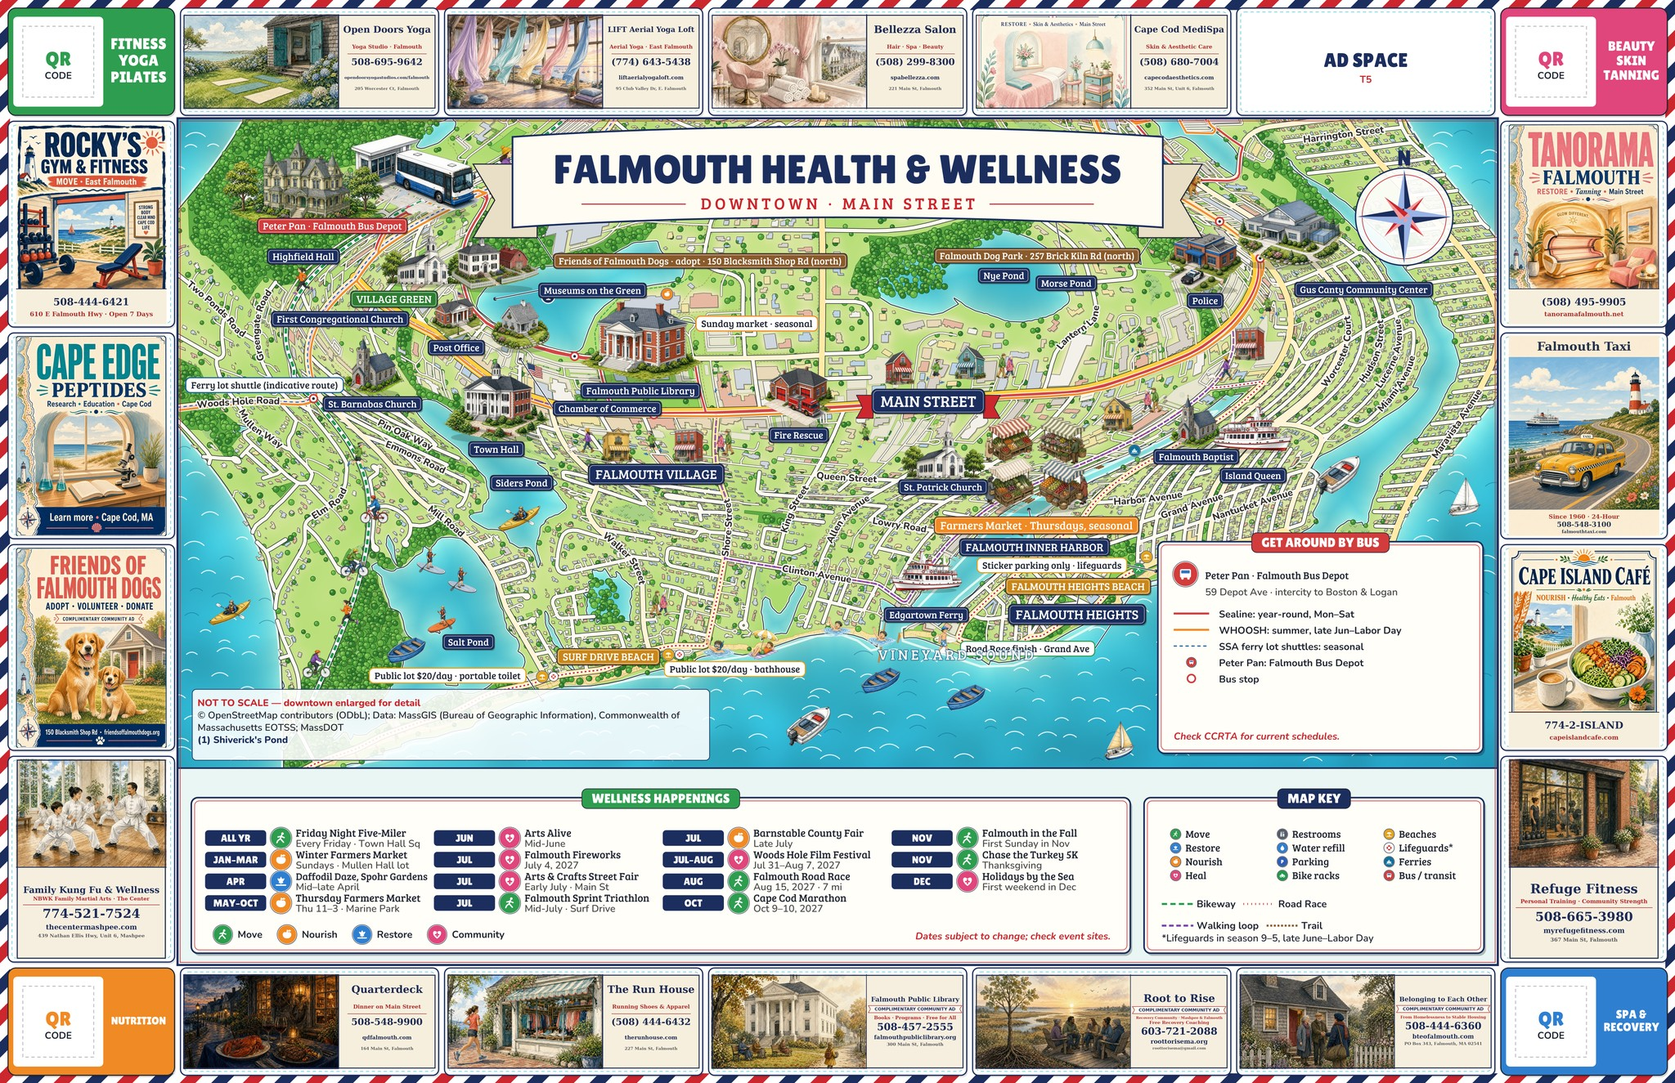
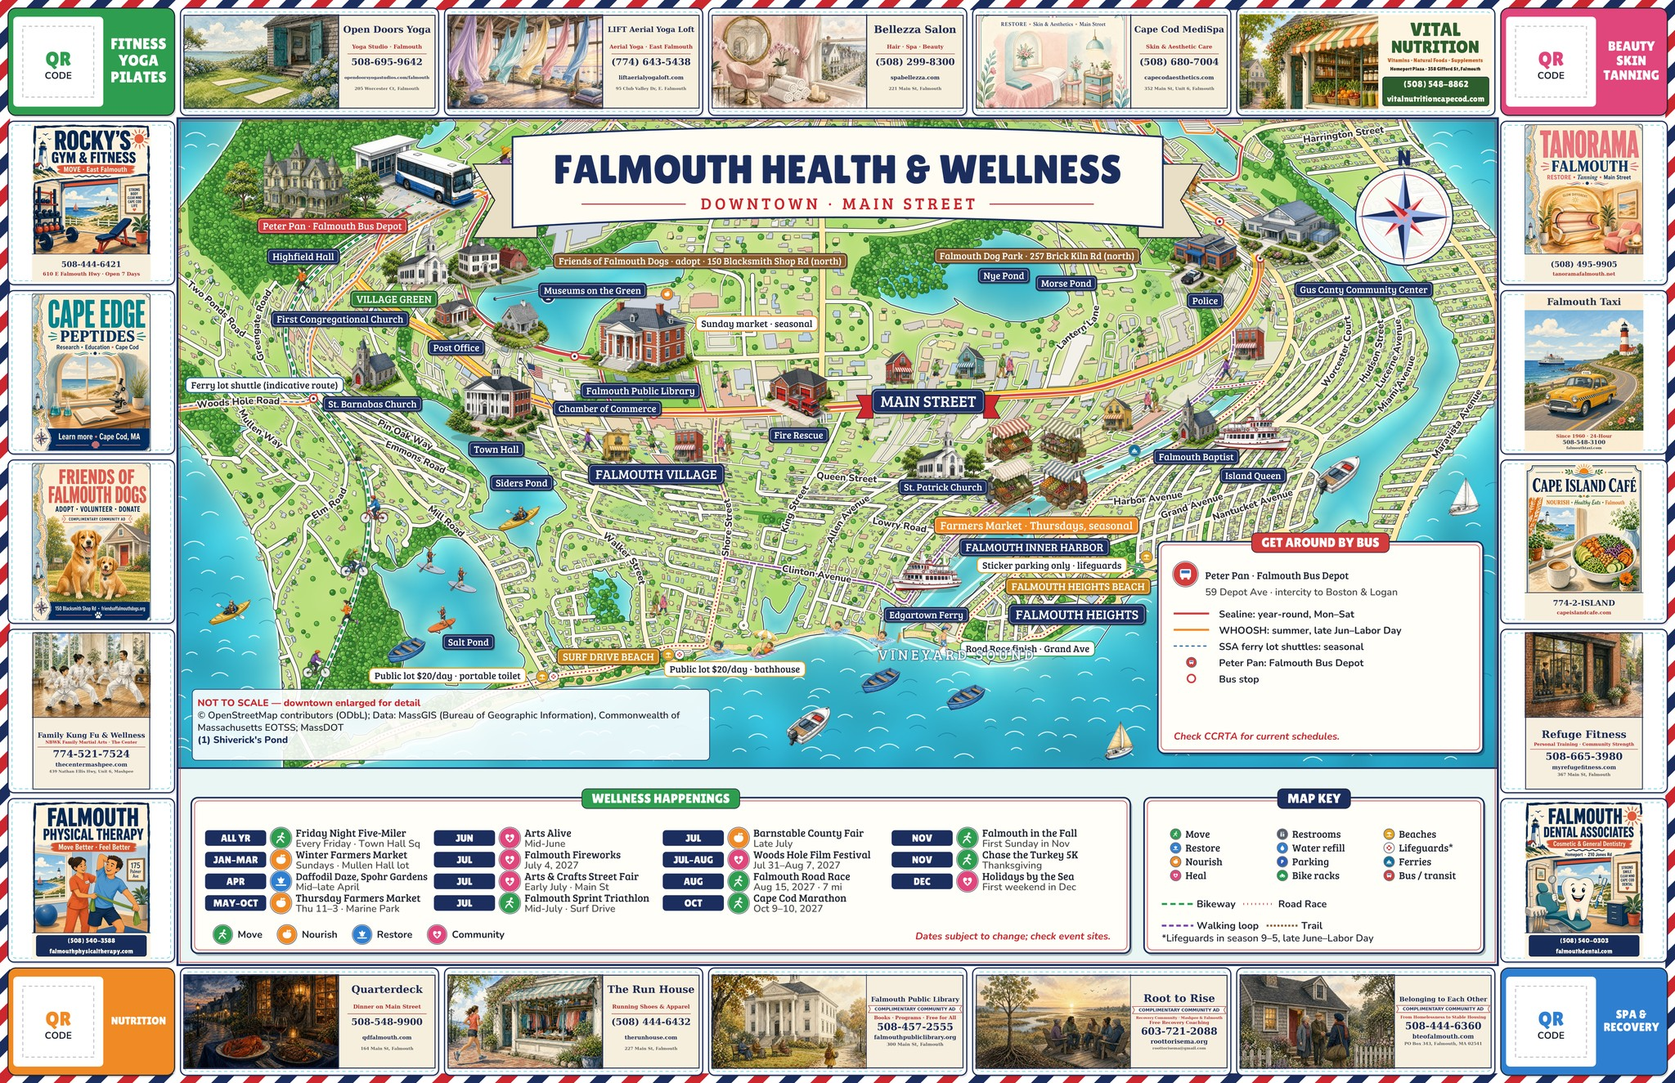
Add Homeport ads: T5 Vital Nutrition, R5 Falmouth Dental, L5 Falmouth PT; sides 4→5 slots

Changed region(s): [[0.7188, 0.0, 1.0, 0.8974], [0.0, 0.0928, 0.125, 0.8974]]

diff --git a/falmouth/spa-recovery/index.html b/falmouth/spa-recovery/index.html
@@ -4,4 +4,4 @@ main{max-width:980px;margin:0 auto;padding:20px}.grid{display:grid;grid-template
 .card{background:#fff;border:3px solid #1d2a36;border-radius:10px;padding:14px;box-shadow:5px 5px 0 var(--acc)}
 .card h3{margin:.1rem 0 .3rem}.tag{display:inline-block;font:12px sans-serif;background:var(--acc);color:#fff;border-radius:4px;padding:2px 6px}
 .conf{font:12px sans-serif;color:#7a5a00}.draft{background:#fff3c4;border:2px dashed #b38600;padding:8px 12px;font:13px sans-serif;margin-bottom:16px}
-a{color:#1d4f91}footer{font:12px sans-serif;color:#555;padding:20px;text-align:center}nav a{margin-right:12px}nav{display:flex;flex-wrap:wrap;gap:8px;margin:0 0 16px}nav a{margin:0;background:#fff;border:2px solid #1d2a36;border-radius:20px;padding:4px 10px;font:13px sans-serif;text-decoration:none}.feat{background:#1d2a36;color:#fff;font:11px sans-serif;border-radius:4px;padding:2px 6px;margin-left:4px}.note{background:#fff;border:2px dashed var(--acc);padding:8px 12px;font:13px sans-serif;margin-bottom:16px;border-radius:8px}.card p{margin:.3rem 0;font-size:.95rem}@media(max-width:500px){header h1{font-size:1.5rem}}</style></head><body><header><h1>Spa · Recovery</h1><p>Massage, physical therapy, chiropractic, day spas and recovery community.</p></header><main><nav><a href="../../">← Map gallery</a><a href="../../falmouth/">All categories</a><a href="../fitness-yoga-pilates/">Fitness · Yoga · Pilates</a><a href="../beauty-skin-tanning/">Beauty · Skin · Tanning</a><a href="../nutrition/">Nutrition</a><a href="../spa-recovery/">Spa · Recovery</a><a href="../getting-around/">Getting Around</a><a href="../hotels/">Hotels & Stays</a><a href="../groceries/">Groceries & Markets</a></nav><div class="note">Listings update over time. ★ = featured on the printed map border.</div><div class="grid"><div class="card"><h3>Root to Rise<span class=feat>★ Map advertiser</span></h3><span class="tag">free recovery community · complimentary</span><p>📞 <a href="tel:6037212088">603-721-2088</a></p><p>🌐 <a href="https://roottorisema.org/" target="_blank" rel="noopener">roottorisema.org</a></p></div><div class="card"><h3>Bay State Physical Therapy - Falmouth</h3><span class="tag">physical therapy</span><p>📍 205 Worcester Court, Unit B3, Falmouth, MA 02540</p><p>📞 <a href="tel:7743490026">(774) 349-0026</a></p><p>🌐 <a href="https://locations.baystatept.com/ma/falmouth/205-worcester-court" target="_blank" rel="noopener">locations.baystatept.com/ma/falmouth/205-worcester-court</a></p></div><div class="card"><h3>Calleen&#x27;s Day Spa</h3><span class="tag">day spa</span><p>📍 292 Teaticket Highway, Falmouth, MA 02536</p><p>📞 <a href="tel:+17742551043">+1-774-255-1043</a></p><p>🌐 <a href="https://www.caleensdayspafalmouth.com" target="_blank" rel="noopener">caleensdayspafalmouth.com</a></p></div><div class="card"><h3>Falmouth Physical Therapy</h3><span class="tag">physical therapy</span><p>📍 175 Palmer Avenue, Falmouth, MA 02540</p><p>📞 <a href="tel:5085403588">508-540-3588</a></p><p>🌐 <a href="https://falmouthphysicaltherapy.com/" target="_blank" rel="noopener">falmouthphysicaltherapy.com</a></p></div><div class="card"><h3>Gallagher Family Chiropractic</h3><span class="tag">chiropractic</span><p>📍 143 Palmer Avenue, Falmouth, MA 02540</p><p>📞 <a href="tel:5084576000">508-457-6000</a></p><p>🌐 <a href="https://www.gallagherfamilychiropractic.net/" target="_blank" rel="noopener">gallagherfamilychiropractic.net</a></p></div><div class="card"><h3>Holistic Massage and Wellness (Lisa Jean Cotto, LMT)</h3><span class="tag">massage therapy / holistic wellness</span><p>📍 200 Main Street, Suite 205, Room 1, Falmouth, MA 02540</p><p>📞 <a href="tel:5088156689">(508) 815-6689</a></p><p>🌐 <a href="https://www.holisticmassageandwellness.com/" target="_blank" rel="noopener">holisticmassageandwellness.com</a></p></div><div class="card"><h3>Relax &amp; Renew Day Spa</h3><span class="tag">day spa / massage / facials</span><p>📍 635 West Falmouth Highway, West Falmouth, MA 02574</p><p>📞 <a href="tel:5085407775">(508) 540-7775</a></p><p>🌐 <a href="https://www.relaxandrenewdayspa.com/" target="_blank" rel="noopener">relaxandrenewdayspa.com</a></p></div><div class="card"><h3>Relaxing Therapeutic Massage</h3><span class="tag">massage therapy</span><p>📍 200 Main Street (Rt. 28), Suite 205, Falmouth, MA 02540</p><p>📞 <a href="tel:7742698917">774-269-8917</a></p><p>🌐 <a href="https://relaxing.abmp.com/" target="_blank" rel="noopener">relaxing.abmp.com</a></p></div><div class="card"><h3>Thumbtastic of Cape Cod</h3><span class="tag">massage / infrared sauna / personal training</span><p>📍 95 Spring Bars Road, Unit 107, Falmouth, MA 02540</p><p>📞 <a href="tel:5083607546">(508) 360-7546</a></p><p>🌐 <a href="https://www.thumbtasticofcapecod.com/" target="_blank" rel="noopener">thumbtasticofcapecod.com</a></p></div><div class="card"><h3>Walko Chiropractic &amp; Nutrition</h3><span class="tag">chiropractic / nutrition guidance</span><p>📍 69 Davis Straits, Falmouth, MA 02540</p><p>📞 <a href="tel:5085404000">508-540-4000</a></p><p>🌐 <a href="https://walkochiro.com/" target="_blank" rel="noopener">walkochiro.com</a></p></div><div class="card"><h3>Woods Hole Wellbeing</h3><span class="tag">energy / sound healing studio</span><p>📍 28 Water Street, Unit A, Woods Hole, MA 02543</p><p>📞 <a href="tel:5082742776">508-274-2776</a></p><p>🌐 <a href="https://www.woodsholewellbeing.com/" target="_blank" rel="noopener">woodsholewellbeing.com</a></p></div></div><h2>More coming</h2><p>Events, offers and tips for this category will be added here.</p></main><footer>Falmouth Health &amp; Wellness Map · Falmouth, MA · Listings update over time</footer></body></html>
+a{color:#1d4f91}footer{font:12px sans-serif;color:#555;padding:20px;text-align:center}nav a{margin-right:12px}nav{display:flex;flex-wrap:wrap;gap:8px;margin:0 0 16px}nav a{margin:0;background:#fff;border:2px solid #1d2a36;border-radius:20px;padding:4px 10px;font:13px sans-serif;text-decoration:none}.feat{background:#1d2a36;color:#fff;font:11px sans-serif;border-radius:4px;padding:2px 6px;margin-left:4px}.note{background:#fff;border:2px dashed var(--acc);padding:8px 12px;font:13px sans-serif;margin-bottom:16px;border-radius:8px}.card p{margin:.3rem 0;font-size:.95rem}@media(max-width:500px){header h1{font-size:1.5rem}}</style></head><body><header><h1>Spa · Recovery</h1><p>Massage, physical therapy, chiropractic, day spas and recovery community.</p></header><main><nav><a href="../../">← Map gallery</a><a href="../../falmouth/">All categories</a><a href="../fitness-yoga-pilates/">Fitness · Yoga · Pilates</a><a href="../beauty-skin-tanning/">Beauty · Skin · Tanning</a><a href="../nutrition/">Nutrition</a><a href="../spa-recovery/">Spa · Recovery</a><a href="../getting-around/">Getting Around</a><a href="../hotels/">Hotels & Stays</a><a href="../groceries/">Groceries & Markets</a></nav><div class="note">Listings update over time. ★ = featured on the printed map border.</div><div class="grid"><div class="card"><h3>Root to Rise<span class=feat>★ Map advertiser</span></h3><span class="tag">free recovery community · complimentary</span><p>📞 <a href="tel:6037212088">603-721-2088</a></p><p>🌐 <a href="https://roottorisema.org/" target="_blank" rel="noopener">roottorisema.org</a></p></div><div class="card"><h3>Bay State Physical Therapy - Falmouth</h3><span class="tag">physical therapy</span><p>📍 205 Worcester Court, Unit B3, Falmouth, MA 02540</p><p>📞 <a href="tel:7743490026">(774) 349-0026</a></p><p>🌐 <a href="https://locations.baystatept.com/ma/falmouth/205-worcester-court" target="_blank" rel="noopener">locations.baystatept.com/ma/falmouth/205-worcester-court</a></p></div><div class="card"><h3>Calleen&#x27;s Day Spa</h3><span class="tag">day spa</span><p>📍 292 Teaticket Highway, Falmouth, MA 02536</p><p>📞 <a href="tel:+17742551043">+1-774-255-1043</a></p><p>🌐 <a href="https://www.caleensdayspafalmouth.com" target="_blank" rel="noopener">caleensdayspafalmouth.com</a></p></div><div class="card"><h3>Falmouth Physical Therapy<span class=feat>★ Map advertiser</span></h3><span class="tag">physical therapy</span><p>📍 175 Palmer Avenue, Falmouth, MA 02540</p><p>📞 <a href="tel:5085403588">508-540-3588</a></p><p>🌐 <a href="https://falmouthphysicaltherapy.com/" target="_blank" rel="noopener">falmouthphysicaltherapy.com</a></p></div><div class="card"><h3>Gallagher Family Chiropractic</h3><span class="tag">chiropractic</span><p>📍 143 Palmer Avenue, Falmouth, MA 02540</p><p>📞 <a href="tel:5084576000">508-457-6000</a></p><p>🌐 <a href="https://www.gallagherfamilychiropractic.net/" target="_blank" rel="noopener">gallagherfamilychiropractic.net</a></p></div><div class="card"><h3>Holistic Massage and Wellness (Lisa Jean Cotto, LMT)</h3><span class="tag">massage therapy / holistic wellness</span><p>📍 200 Main Street, Suite 205, Room 1, Falmouth, MA 02540</p><p>📞 <a href="tel:5088156689">(508) 815-6689</a></p><p>🌐 <a href="https://www.holisticmassageandwellness.com/" target="_blank" rel="noopener">holisticmassageandwellness.com</a></p></div><div class="card"><h3>Relax &amp; Renew Day Spa</h3><span class="tag">day spa / massage / facials</span><p>📍 635 West Falmouth Highway, West Falmouth, MA 02574</p><p>📞 <a href="tel:5085407775">(508) 540-7775</a></p><p>🌐 <a href="https://www.relaxandrenewdayspa.com/" target="_blank" rel="noopener">relaxandrenewdayspa.com</a></p></div><div class="card"><h3>Relaxing Therapeutic Massage</h3><span class="tag">massage therapy</span><p>📍 200 Main Street (Rt. 28), Suite 205, Falmouth, MA 02540</p><p>📞 <a href="tel:7742698917">774-269-8917</a></p><p>🌐 <a href="https://relaxing.abmp.com/" target="_blank" rel="noopener">relaxing.abmp.com</a></p></div><div class="card"><h3>Thumbtastic of Cape Cod</h3><span class="tag">massage / infrared sauna / personal training</span><p>📍 95 Spring Bars Road, Unit 107, Falmouth, MA 02540</p><p>📞 <a href="tel:5083607546">(508) 360-7546</a></p><p>🌐 <a href="https://www.thumbtasticofcapecod.com/" target="_blank" rel="noopener">thumbtasticofcapecod.com</a></p></div><div class="card"><h3>Walko Chiropractic &amp; Nutrition</h3><span class="tag">chiropractic / nutrition guidance</span><p>📍 69 Davis Straits, Falmouth, MA 02540</p><p>📞 <a href="tel:5085404000">508-540-4000</a></p><p>🌐 <a href="https://walkochiro.com/" target="_blank" rel="noopener">walkochiro.com</a></p></div><div class="card"><h3>Woods Hole Wellbeing</h3><span class="tag">energy / sound healing studio</span><p>📍 28 Water Street, Unit A, Woods Hole, MA 02543</p><p>📞 <a href="tel:5082742776">508-274-2776</a></p><p>🌐 <a href="https://www.woodsholewellbeing.com/" target="_blank" rel="noopener">woodsholewellbeing.com</a></p></div></div><h2>More coming</h2><p>Events, offers and tips for this category will be added here.</p></main><footer>Falmouth Health &amp; Wellness Map · Falmouth, MA · Listings update over time</footer></body></html>

diff --git a/falmouth/nutrition/index.html b/falmouth/nutrition/index.html
@@ -4,4 +4,4 @@ main{max-width:980px;margin:0 auto;padding:20px}.grid{display:grid;grid-template
 .card{background:#fff;border:3px solid #1d2a36;border-radius:10px;padding:14px;box-shadow:5px 5px 0 var(--acc)}
 .card h3{margin:.1rem 0 .3rem}.tag{display:inline-block;font:12px sans-serif;background:var(--acc);color:#fff;border-radius:4px;padding:2px 6px}
 .conf{font:12px sans-serif;color:#7a5a00}.draft{background:#fff3c4;border:2px dashed #b38600;padding:8px 12px;font:13px sans-serif;margin-bottom:16px}
-a{color:#1d4f91}footer{font:12px sans-serif;color:#555;padding:20px;text-align:center}nav a{margin-right:12px}nav{display:flex;flex-wrap:wrap;gap:8px;margin:0 0 16px}nav a{margin:0;background:#fff;border:2px solid #1d2a36;border-radius:20px;padding:4px 10px;font:13px sans-serif;text-decoration:none}.feat{background:#1d2a36;color:#fff;font:11px sans-serif;border-radius:4px;padding:2px 6px;margin-left:4px}.note{background:#fff;border:2px dashed var(--acc);padding:8px 12px;font:13px sans-serif;margin-bottom:16px;border-radius:8px}.card p{margin:.3rem 0;font-size:.95rem}@media(max-width:500px){header h1{font-size:1.5rem}}</style></head><body><header><h1>Nutrition</h1><p>Health food, smoothies and nourishing eats. See also the Falmouth Farmers Market (Thursdays at Marine Park in season).</p></header><main><nav><a href="../../">← Map gallery</a><a href="../../falmouth/">All categories</a><a href="../fitness-yoga-pilates/">Fitness · Yoga · Pilates</a><a href="../beauty-skin-tanning/">Beauty · Skin · Tanning</a><a href="../nutrition/">Nutrition</a><a href="../spa-recovery/">Spa · Recovery</a><a href="../getting-around/">Getting Around</a><a href="../hotels/">Hotels & Stays</a><a href="../groceries/">Groceries & Markets</a></nav><div class="note">Listings update over time. ★ = featured on the printed map border.</div><div class="grid"><div class="card"><h3>Cape Edge Peptides<span class=feat>★ Map advertiser</span></h3><span class="tag">peptide research &amp; education (no dosing advice)</span></div><div class="card"><h3>Cape Island Café<span class=feat>★ Map advertiser</span></h3><span class="tag">café / healthy eats</span><p>📍 316 Gifford St, Falmouth, MA 02540</p><p>📞 <a href="tel:7742475263">774-247-5263</a></p><p>🌐 <a href="https://capeislandcafe.com/" target="_blank" rel="noopener">capeislandcafe.com</a></p></div><div class="card"><h3>Devour Eatery</h3><span class="tag">eatery with smoothies / bowls / GF + vegan options</span><p>📍 352 Main Street, Falmouth, MA 02540</p><p>📞 <a href="tel:5085405900">508-540-5900</a></p><p>🌐 <a href="https://www.devoureatery.com/" target="_blank" rel="noopener">devoureatery.com</a></p></div><div class="card"><h3>The Blended Berry (Falmouth)</h3><span class="tag">juice / smoothie / acai bar</span><p>📍 56 Davis Straits, Falmouth, MA 02540</p><p>📞 <a href="tel:5083887121">(508) 388-7121</a></p><p>🌐 <a href="https://www.theblendedberry.com/" target="_blank" rel="noopener">theblendedberry.com</a></p></div><div class="card"><h3>Vital Nutrition</h3><span class="tag">vitamin / supplement / health food store · Homeport</span><p>📍 358 Gifford Street, Falmouth, MA 02540</p><p>📞 <a href="tel:5085488862">(508) 548-8862</a></p><p>🌐 <a href="https://www.vitalnutritioncapecod.com/" target="_blank" rel="noopener">vitalnutritioncapecod.com</a></p></div></div><h2>More coming</h2><p>Events, offers and tips for this category will be added here.</p></main><footer>Falmouth Health &amp; Wellness Map · Falmouth, MA · Listings update over time</footer></body></html>
+a{color:#1d4f91}footer{font:12px sans-serif;color:#555;padding:20px;text-align:center}nav a{margin-right:12px}nav{display:flex;flex-wrap:wrap;gap:8px;margin:0 0 16px}nav a{margin:0;background:#fff;border:2px solid #1d2a36;border-radius:20px;padding:4px 10px;font:13px sans-serif;text-decoration:none}.feat{background:#1d2a36;color:#fff;font:11px sans-serif;border-radius:4px;padding:2px 6px;margin-left:4px}.note{background:#fff;border:2px dashed var(--acc);padding:8px 12px;font:13px sans-serif;margin-bottom:16px;border-radius:8px}.card p{margin:.3rem 0;font-size:.95rem}@media(max-width:500px){header h1{font-size:1.5rem}}</style></head><body><header><h1>Nutrition</h1><p>Health food, smoothies and nourishing eats. See also the Falmouth Farmers Market (Thursdays at Marine Park in season).</p></header><main><nav><a href="../../">← Map gallery</a><a href="../../falmouth/">All categories</a><a href="../fitness-yoga-pilates/">Fitness · Yoga · Pilates</a><a href="../beauty-skin-tanning/">Beauty · Skin · Tanning</a><a href="../nutrition/">Nutrition</a><a href="../spa-recovery/">Spa · Recovery</a><a href="../getting-around/">Getting Around</a><a href="../hotels/">Hotels & Stays</a><a href="../groceries/">Groceries & Markets</a></nav><div class="note">Listings update over time. ★ = featured on the printed map border.</div><div class="grid"><div class="card"><h3>Cape Edge Peptides<span class=feat>★ Map advertiser</span></h3><span class="tag">peptide research &amp; education (no dosing advice)</span></div><div class="card"><h3>Cape Island Café<span class=feat>★ Map advertiser</span></h3><span class="tag">café / healthy eats</span><p>📍 316 Gifford St, Falmouth, MA 02540</p><p>📞 <a href="tel:7742475263">774-247-5263</a></p><p>🌐 <a href="https://capeislandcafe.com/" target="_blank" rel="noopener">capeislandcafe.com</a></p></div><div class="card"><h3>Devour Eatery</h3><span class="tag">eatery with smoothies / bowls / GF + vegan options</span><p>📍 352 Main Street, Falmouth, MA 02540</p><p>📞 <a href="tel:5085405900">508-540-5900</a></p><p>🌐 <a href="https://www.devoureatery.com/" target="_blank" rel="noopener">devoureatery.com</a></p></div><div class="card"><h3>The Blended Berry (Falmouth)</h3><span class="tag">juice / smoothie / acai bar</span><p>📍 56 Davis Straits, Falmouth, MA 02540</p><p>📞 <a href="tel:5083887121">(508) 388-7121</a></p><p>🌐 <a href="https://www.theblendedberry.com/" target="_blank" rel="noopener">theblendedberry.com</a></p></div><div class="card"><h3>Vital Nutrition<span class=feat>★ Map advertiser</span></h3><span class="tag">vitamin / supplement / health food store · Homeport</span><p>📍 358 Gifford Street, Falmouth, MA 02540</p><p>📞 <a href="tel:5085488862">(508) 548-8862</a></p><p>🌐 <a href="https://www.vitalnutritioncapecod.com/" target="_blank" rel="noopener">vitalnutritioncapecod.com</a></p></div></div><h2>More coming</h2><p>Events, offers and tips for this category will be added here.</p></main><footer>Falmouth Health &amp; Wellness Map · Falmouth, MA · Listings update over time</footer></body></html>

diff --git a/falmouth/dental/index.html b/falmouth/dental/index.html
@@ -4,4 +4,4 @@ main{max-width:980px;margin:0 auto;padding:20px}.grid{display:grid;grid-template
 .card{background:#fff;border:3px solid #1d2a36;border-radius:10px;padding:14px;box-shadow:5px 5px 0 var(--acc)}
 .card h3{margin:.1rem 0 .3rem}.tag{display:inline-block;font:12px sans-serif;background:var(--acc);color:#fff;border-radius:4px;padding:2px 6px}
 .conf{font:12px sans-serif;color:#7a5a00}.draft{background:#fff3c4;border:2px dashed #b38600;padding:8px 12px;font:13px sans-serif;margin-bottom:16px}
-a{color:#1d4f91}footer{font:12px sans-serif;color:#555;padding:20px;text-align:center}nav a{margin-right:12px}nav{display:flex;flex-wrap:wrap;gap:8px;margin:0 0 16px}nav a{margin:0;background:#fff;border:2px solid #1d2a36;border-radius:20px;padding:4px 10px;font:13px sans-serif;text-decoration:none}.feat{background:#1d2a36;color:#fff;font:11px sans-serif;border-radius:4px;padding:2px 6px;margin-left:4px}.note{background:#fff;border:2px dashed var(--acc);padding:8px 12px;font:13px sans-serif;margin-bottom:16px;border-radius:8px}.card p{margin:.3rem 0;font-size:.95rem}@media(max-width:500px){header h1{font-size:1.5rem}}</style></head><body><header><h1>Dental · Smile</h1><p>Cosmetic and family dentistry — whitening, implants, smile care.</p></header><main><nav><a href="../../">← Map gallery</a><a href="../../falmouth/">All categories</a><a href="../fitness-yoga-pilates/">Fitness · Yoga · Pilates</a><a href="../beauty-skin-tanning/">Beauty · Skin · Tanning</a><a href="../nutrition/">Nutrition</a><a href="../spa-recovery/">Spa · Recovery</a><a href="../dental/">Dental · Smile</a><a href="../getting-around/">Getting Around</a><a href="../hotels/">Hotels & Stays</a><a href="../groceries/">Groceries & Markets</a></nav><div class="note">Listings update over time. ★ = featured on the printed map border.</div><div class="grid"><div class="card"><h3>Falmouth Dental Associates</h3><span class="tag">cosmetic · preventive · implant · family dentistry · Homeport</span><p>📍 210 Jones Rd (Homeport Office Park), Falmouth, MA 02540</p><p>📞 <a href="tel:5085400303">(508) 540-0303</a></p><p>🌐 <a href="https://www.falmouthdental.com/" target="_blank" rel="noopener">falmouthdental.com</a></p></div></div><h2>More coming</h2><p>Events, offers and tips for this category will be added here.</p></main><footer>Falmouth Health &amp; Wellness Map · Falmouth, MA · Listings update over time</footer></body></html>
+a{color:#1d4f91}footer{font:12px sans-serif;color:#555;padding:20px;text-align:center}nav a{margin-right:12px}nav{display:flex;flex-wrap:wrap;gap:8px;margin:0 0 16px}nav a{margin:0;background:#fff;border:2px solid #1d2a36;border-radius:20px;padding:4px 10px;font:13px sans-serif;text-decoration:none}.feat{background:#1d2a36;color:#fff;font:11px sans-serif;border-radius:4px;padding:2px 6px;margin-left:4px}.note{background:#fff;border:2px dashed var(--acc);padding:8px 12px;font:13px sans-serif;margin-bottom:16px;border-radius:8px}.card p{margin:.3rem 0;font-size:.95rem}@media(max-width:500px){header h1{font-size:1.5rem}}</style></head><body><header><h1>Dental · Smile</h1><p>Cosmetic and family dentistry — whitening, implants, smile care.</p></header><main><nav><a href="../../">← Map gallery</a><a href="../../falmouth/">All categories</a><a href="../fitness-yoga-pilates/">Fitness · Yoga · Pilates</a><a href="../beauty-skin-tanning/">Beauty · Skin · Tanning</a><a href="../nutrition/">Nutrition</a><a href="../spa-recovery/">Spa · Recovery</a><a href="../dental/">Dental · Smile</a><a href="../getting-around/">Getting Around</a><a href="../hotels/">Hotels & Stays</a><a href="../groceries/">Groceries & Markets</a></nav><div class="note">Listings update over time. ★ = featured on the printed map border.</div><div class="grid"><div class="card"><h3>Falmouth Dental Associates<span class=feat>★ Map advertiser</span></h3><span class="tag">cosmetic · preventive · implant · family dentistry · Homeport</span><p>📍 210 Jones Rd (Homeport Office Park), Falmouth, MA 02540</p><p>📞 <a href="tel:5085400303">(508) 540-0303</a></p><p>🌐 <a href="https://www.falmouthdental.com/" target="_blank" rel="noopener">falmouthdental.com</a></p></div></div><h2>More coming</h2><p>Events, offers and tips for this category will be added here.</p></main><footer>Falmouth Health &amp; Wellness Map · Falmouth, MA · Listings update over time</footer></body></html>

diff --git a/README.md b/README.md
@@ -4,7 +4,7 @@ Static GitHub Pages site: example maps + a per-slot ad uploader.
 
 ## Using the editor
 1. Open the site, pick a map.
-2. Every ad slot (T1–T5 top, B1–B5 bottom, L1–L4 left, R1–R4 right; tick "Show QR corner slots" for QR-TL/TR/BL/BR) has an **Upload** box. Click it to choose an image, or drag an image onto it.
+2. Every ad slot (T1–T5 top, B1–B5 bottom, L1–L5 left, R1–R5 right; tick "Show QR corner slots" for QR-TL/TR/BL/BR) has an **Upload** box. Click it to choose an image, or drag an image onto it.
 3. Hover a filled slot and click ✕ to clear it. **Reset all** clears the map.
 4. Uploads are saved in your browser (IndexedDB) — refresh keeps them. Other browsers/devices won't see them.
 5. **Download PNG** = full map with ads composited. **Download ad files (zip)** = `ads/<map-id>/T1.png` etc.
